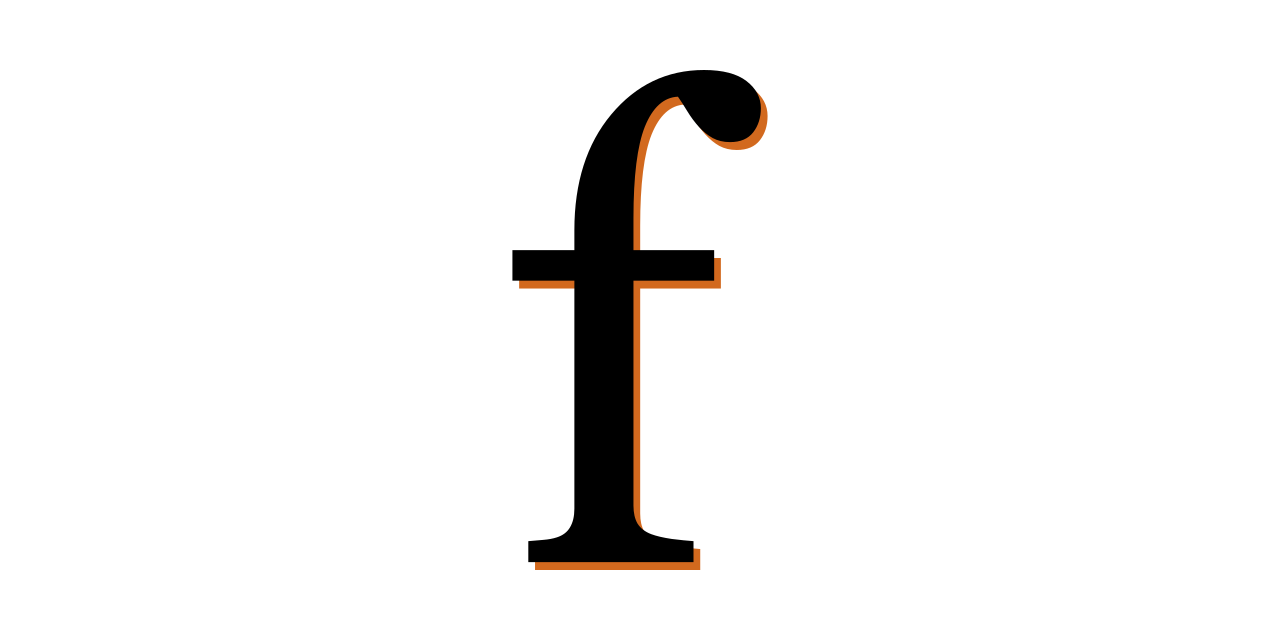
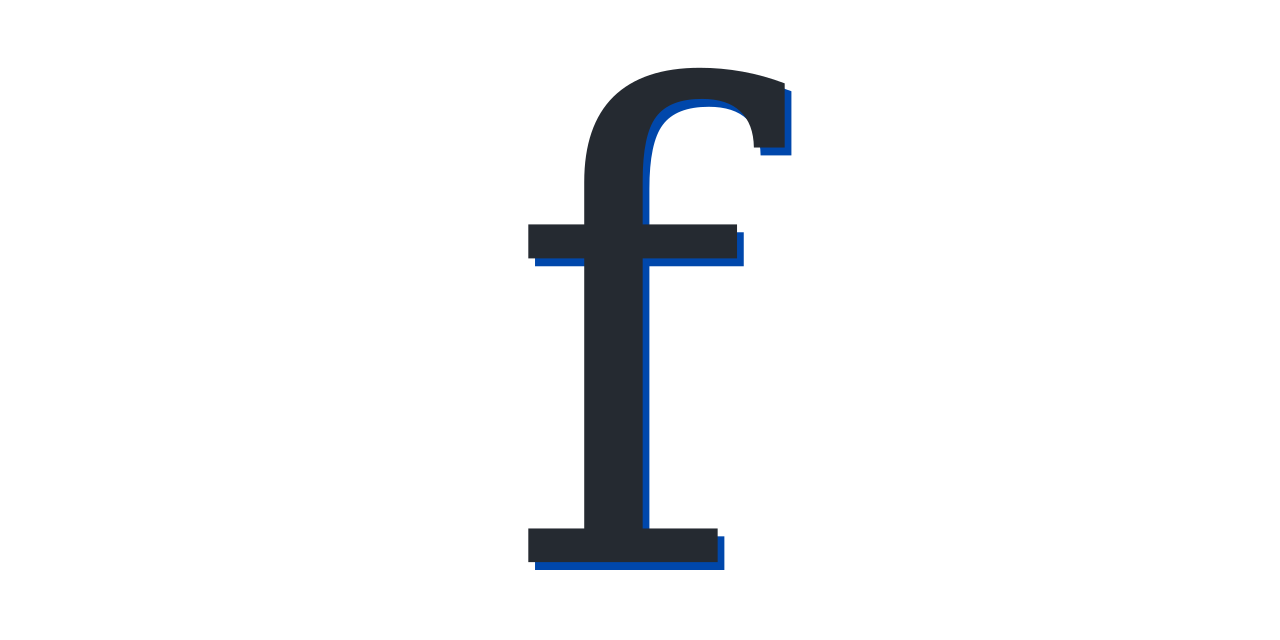
Update concept-color

Changed region(s): [[0.375, 0.0938, 0.625, 0.9062]]

diff --git a/css/main.css b/css/main.css
@@ -51,14 +51,16 @@ body {
    --img-filter:0%;
    --color-excerpt:#333;
    --color-category: darkcyan;
-   --color-hover: #1E90FF;
-   --color-textshadow: #CCC;
+   --color-hover: #0047abda;
+   --color-textshadow: #ccc;
    --color-tab-background: #8d8d8d;
+   --color-not-checked: #444;
+   --color-border: #ccc;
 }
 
 #container {
   width:60%; margin:auto; margin-top:0px; margin-bottom:0px;  text-align:left;
-  border-bottom: 2px solid #ccc;
+  border-bottom: 2px solid var(--color-border);
 }
 
 p a {
@@ -121,15 +123,16 @@ input:focus-visible + label {
 }
 
 .tabset > input:checked + label {
-  border-color: #ccc;
-  border-bottom: 2px solid var(--color-background);
+  border-color: var(--color-border);
   margin-bottom: -2px;
-  border-radius: 5px 5px 0 0;
+  /* border-radius: 5px 5px 0 0; */
+  border-bottom: 2px solid var(--color-border);
+  border-radius: 5px;
 }
 
 .tab-panel {
   padding: 30px 0;
-  border-top: 2px solid #ccc;
+  /* border-top: 2px solid var(--color-border); */
 }
 
 /* top */
@@ -241,7 +244,7 @@ a:hover {
 }
 
 .footer-links:hover {
-  filter: invert(45%) sepia(61%) saturate(2825%) hue-rotate(191deg) brightness(100%) contrast(102%);
+  filter: brightness(0) saturate(100%) invert(15%) sepia(89%) saturate(3127%) hue-rotate(208deg) brightness(93%) contrast(102%);
 }
 
 .img-effect {
@@ -452,28 +455,20 @@ opacity: 100%;
 
 @media only screen and (max-width: 425px) {
     #container {margin-top:0px;width:90%;}
-    .tabset > label {
-    display:block;
-    width: 70%;
-  }
-  .tabset > input:not(:checked) + label {color:#444}
+    .tabset > label {display:block; width: 70%;}
+  /* .tabset > input:not(:checked) + label {color:var(--color-not-checked)} */
   #header-div {padding-top:20px;}
-  .tab-panel { border-top: 0px;}
-  .tabset > input:checked + label { border-color: #ccc;  border-bottom: 1px solid var(#ccc); border-radius: 5px; }
-  .parag-sub{  font-size: 0.6rem; }
+  .tab-panel {border-top: 0px;}
+  .parag-sub{font-size: 0.6rem;}
 }
 
 @media only screen and (min-width: 426px) and (max-width: 479px) {
   #container {margin-top:0px;width:80%;}
-  .tabset > label {
-    display:block;
-    width: 70%;
-  }
-  .tabset > input:not(:checked) + label {color:#444}
+  .tabset > label {display:block;width: 70%;}
+  /* .tabset > input:not(:checked) + label {color:var(--color-not-checked)} */
   #header-div {padding-top:45px;}
-  .tab-panel { border-top: 0px;}
-  .tabset > input:checked + label { border-color: #ccc;  border-bottom: 1px solid var(#ccc); border-radius: 5px; }
-  .parag-sub{  font-size: 0.6rem; }
+  .tab-panel {border-top: 0px;}
+  .parag-sub{font-size: 0.6rem;}
 }
 
 @media only screen and (min-width: 426px) and (max-width: 523px) {
@@ -487,7 +482,6 @@ opacity: 100%;
       padding-right:5px;}
   #airnav{background-position: top;}
   .tab-panel { border-top: 0px;}
-  .tabset > input:checked + label { border-color: #ccc;  border-bottom: 1px solid var(#ccc); border-radius: 5px; }
   .parag-sub{  font-size: 0.6rem; }
 }
 
@@ -501,7 +495,6 @@ opacity: 100%;
   #airnav{background-position: top;}
   #driveworks{background-size: contain;}  
   .tab-panel { border-top: 0px;}
-  .tabset > input:checked + label {  border-color: #ccc;  border-bottom: 1px solid var(#ccc); border-radius: 5px ;}
   .parag-sub{  font-size: 0.6rem; }
 }
 

diff --git a/index.html b/index.html
@@ -11,12 +11,14 @@
   <meta charset="utf-8" name="viewport" content="width=device-width, initial-scale=1.0">
   <link rel="stylesheet" type="text/css" href="./css/main.css">
 
-  <link rel="apple-touch-icon" sizes="180x180" href="/icon-main/apple-touch-icon.png">
-  <link rel="icon" type="image/png" sizes="32x32" href="/icon-main/favicon-32x32.png">
-  <link rel="icon" type="image/png" sizes="16x16" href="/icon-main/favicon-16x16.png">
+  <link rel="apple-touch-icon" href="/icon-main/apple-touch-icon.png">
+  <link rel="icon" type="image/png" sizes="96x96" href="/icon-main/favicon-96x96.png">
   <link rel="manifest" href="/icon-main/site.webmanifest">
   <link rel="mask-icon" href="/icon-main/safari-pinned-tab.svg" color="#000000">
   <link rel="shortcut icon" href="/icon-main/favicon.ico">
+  <link rel="icon" href="/icon-main/favicon.svg" type="image/svg+xml" sizes="any">
+
+
   <title>Fatih Mehmet Özcan</title>
 </head>
 
